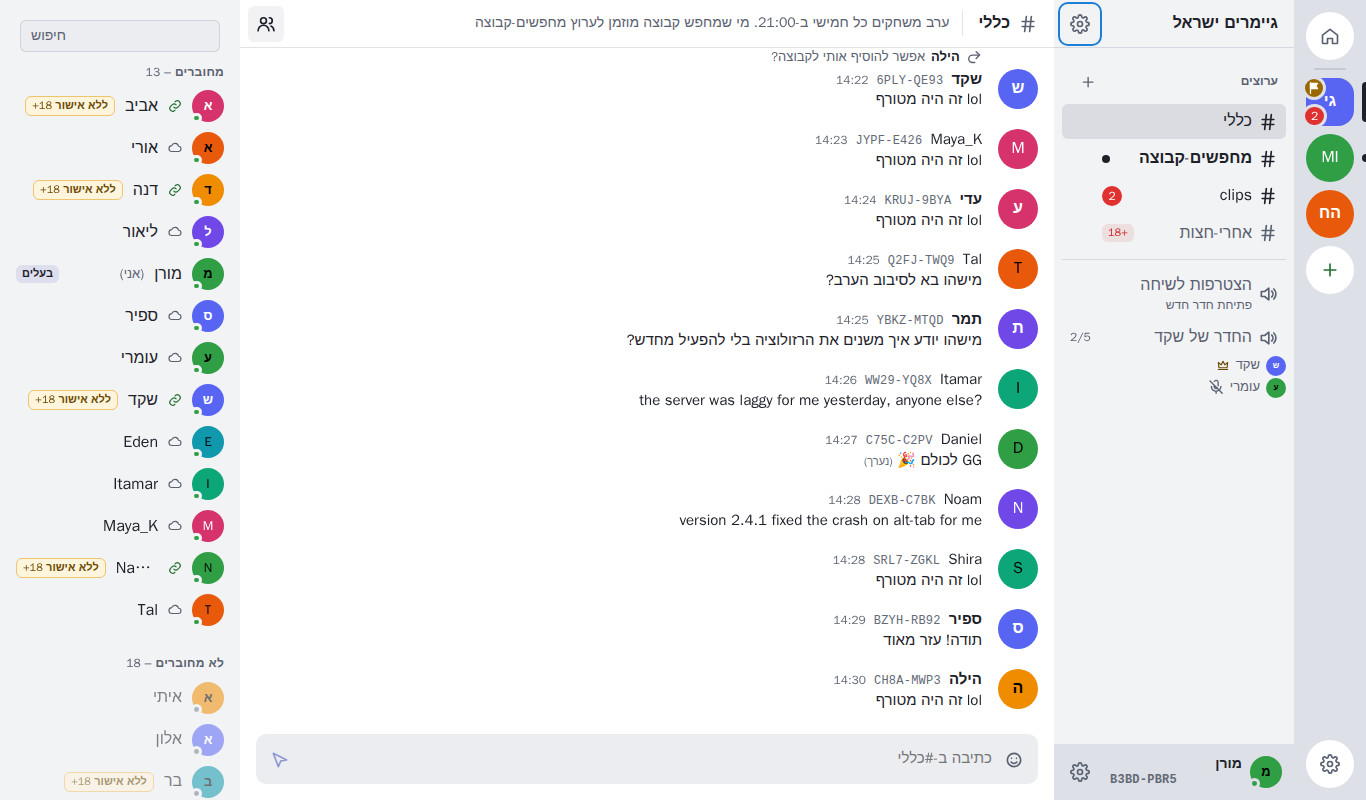
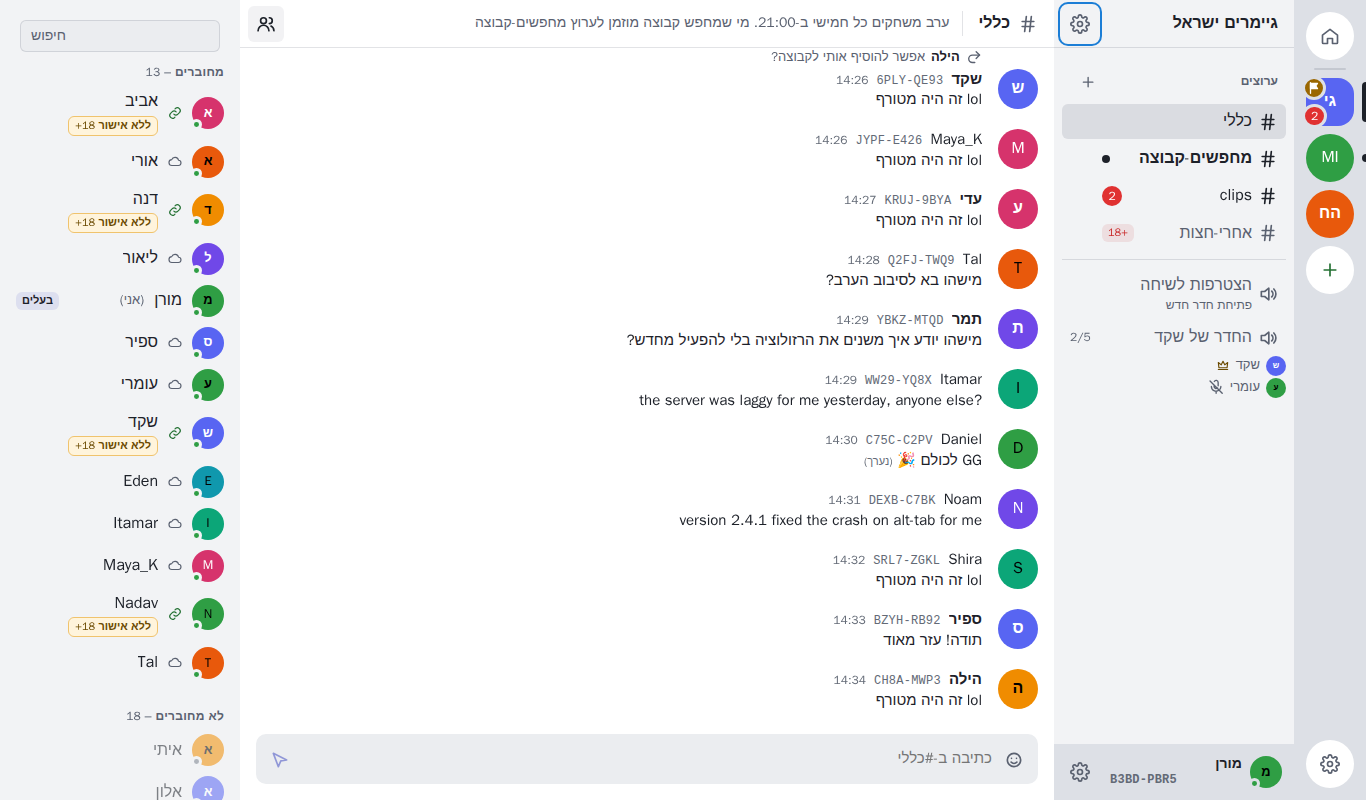
fix(ui): G-52 the "no 18+ claim" tag goes under the name, so the name isn't cut (UX)
Shot 554 retaken. The tag stays in the row's accessible name.

Changed region(s): [[0.0, 0.0938, 0.1845, 1.0]]

diff --git a/ui/src/screens/shell/MemberList.tsx b/ui/src/screens/shell/MemberList.tsx
@@ -175,14 +175,21 @@ export function MemberList({ server, onClose }: { server: ServerSummary; onClose
               >
                 <Avatar name={displayName(m)} color={m.color ?? m.avatarColor} src={m.avatarDataUrl} size={32} presence={m.presence} />
                 {m.connection && <ConnectionIcon connection={m.connection} />}
-                <Name>{displayName(m)}</Name>
+                {m.notAdult ? (
+                  // G-52 (UX): the tag on its own line, so the name isn't cut (staff act on it).
+                  <span className="member-name-stack">
+                    <Name>{displayName(m)}</Name>
+                    <NotAdultTag />
+                  </span>
+                ) : (
+                  <Name>{displayName(m)}</Name>
+                )}
                 {m.id === myId && (
                   <span className="muted small">
                     <FormattedMessage id="members.me" />
                   </span>
                 )}
                 {flagged.has(m.id) && <LookalikeTag />}
-                {m.notAdult && <NotAdultTag />}
                 {m.isOwner && (
                   <span className="owner-tag" title={intl.formatMessage({ id: 'members.owner' })}>
                     <FormattedMessage id="members.owner" />

diff --git a/ui/src/styles/app.css b/ui/src/styles/app.css
@@ -1230,6 +1230,19 @@ legend {
   white-space: nowrap;
 }
 
+/* G-52: the name with the "no 18+ claim" tag under it. */
+.member-name-stack {
+  display: flex;
+  flex-direction: column;
+  align-items: flex-start;
+  gap: 0.125rem;
+  min-inline-size: 0;
+}
+
+.member-name-stack > bdi {
+  max-inline-size: 100%;
+}
+
 .member.offline {
   opacity: 0.55;
 }
